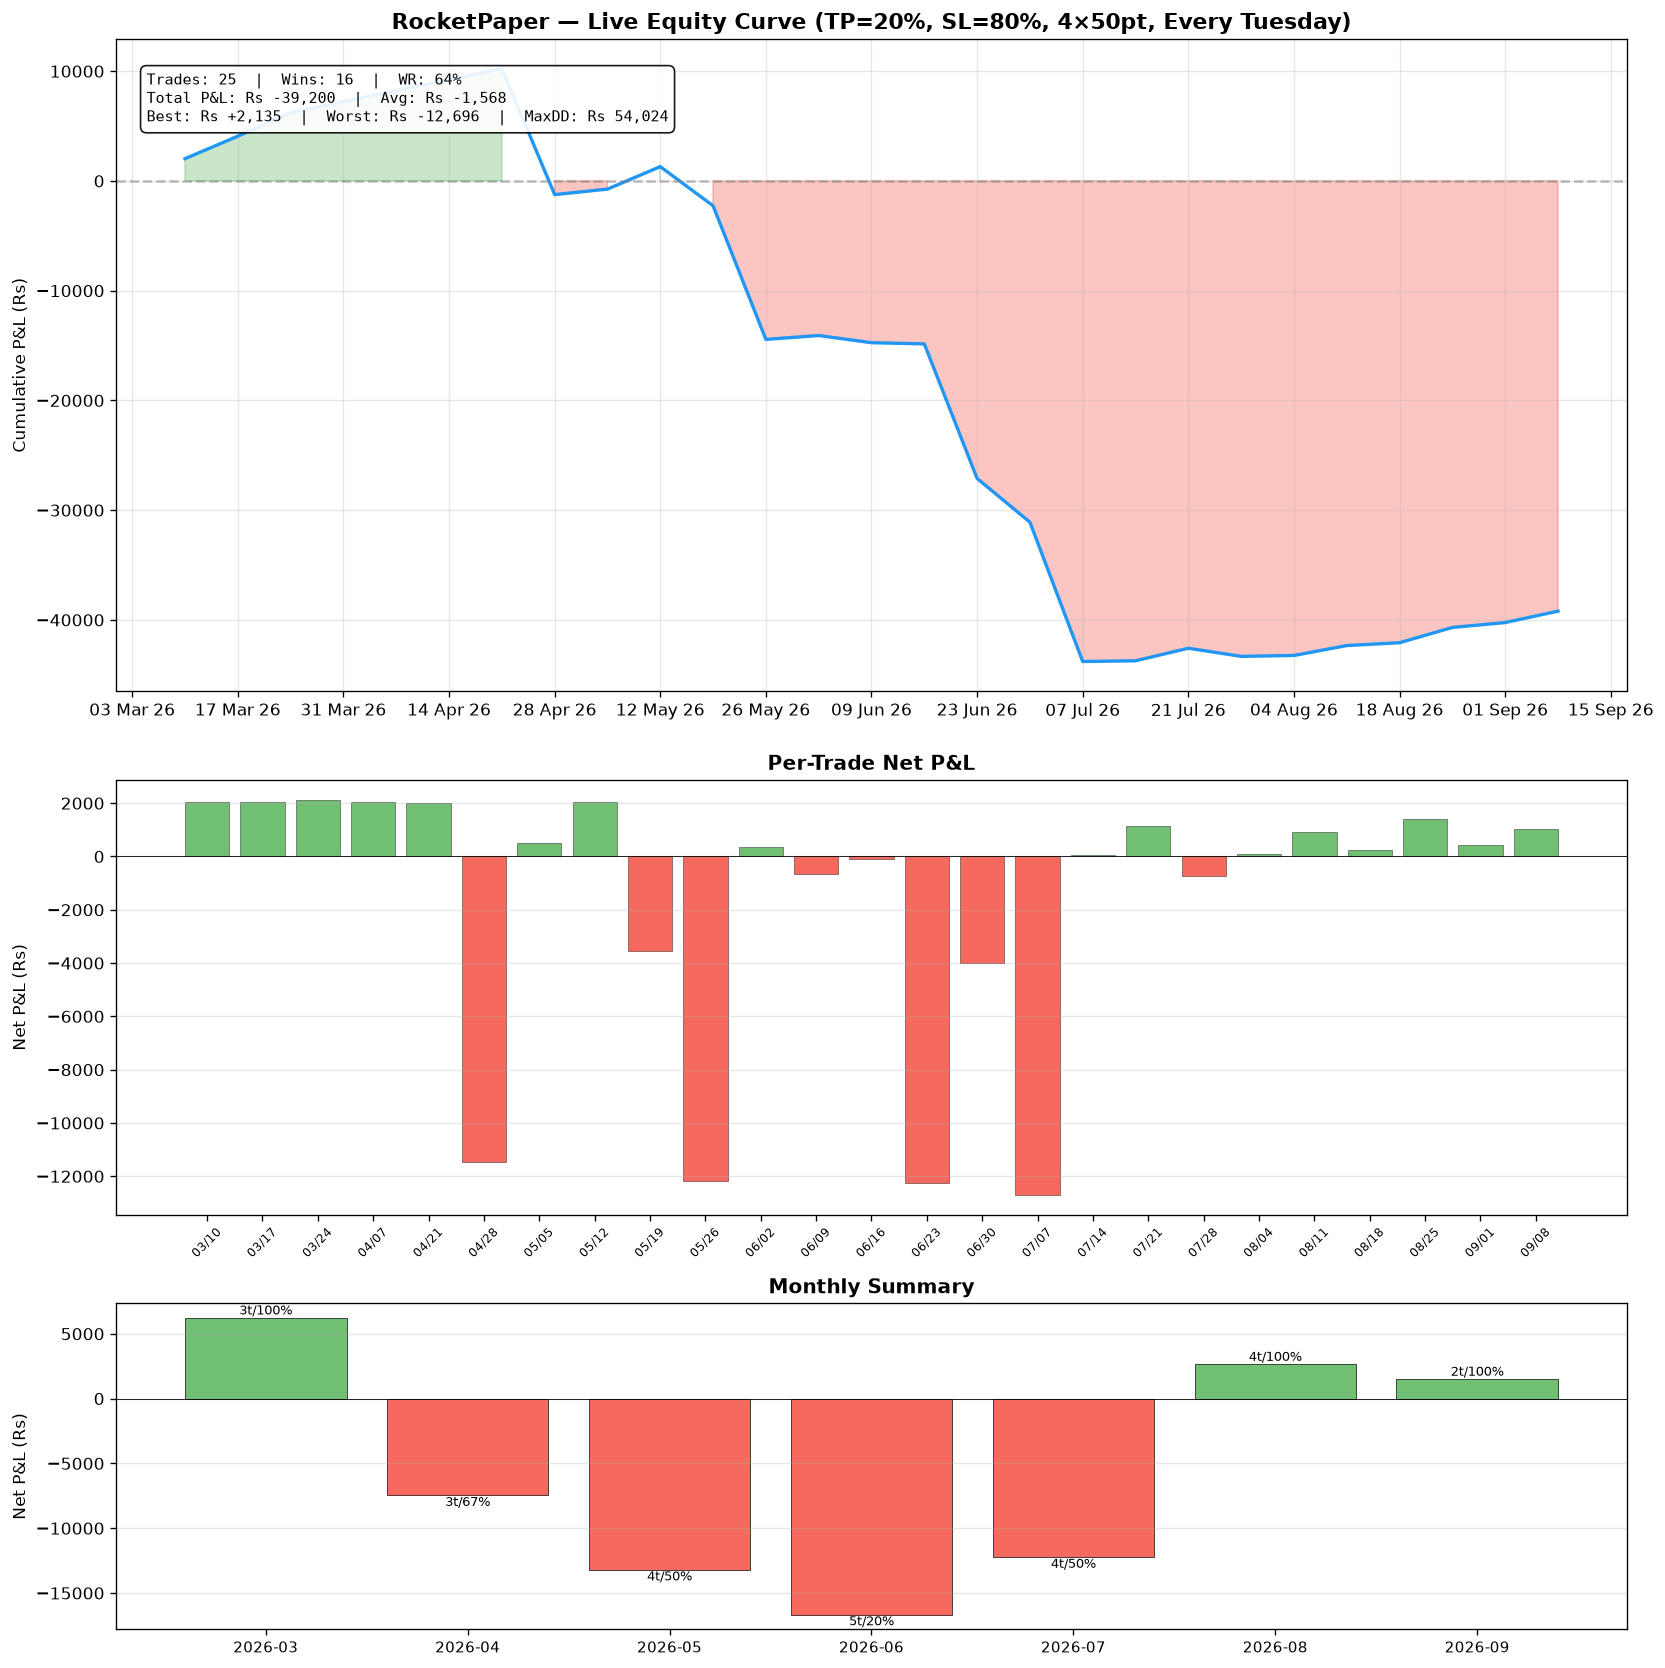
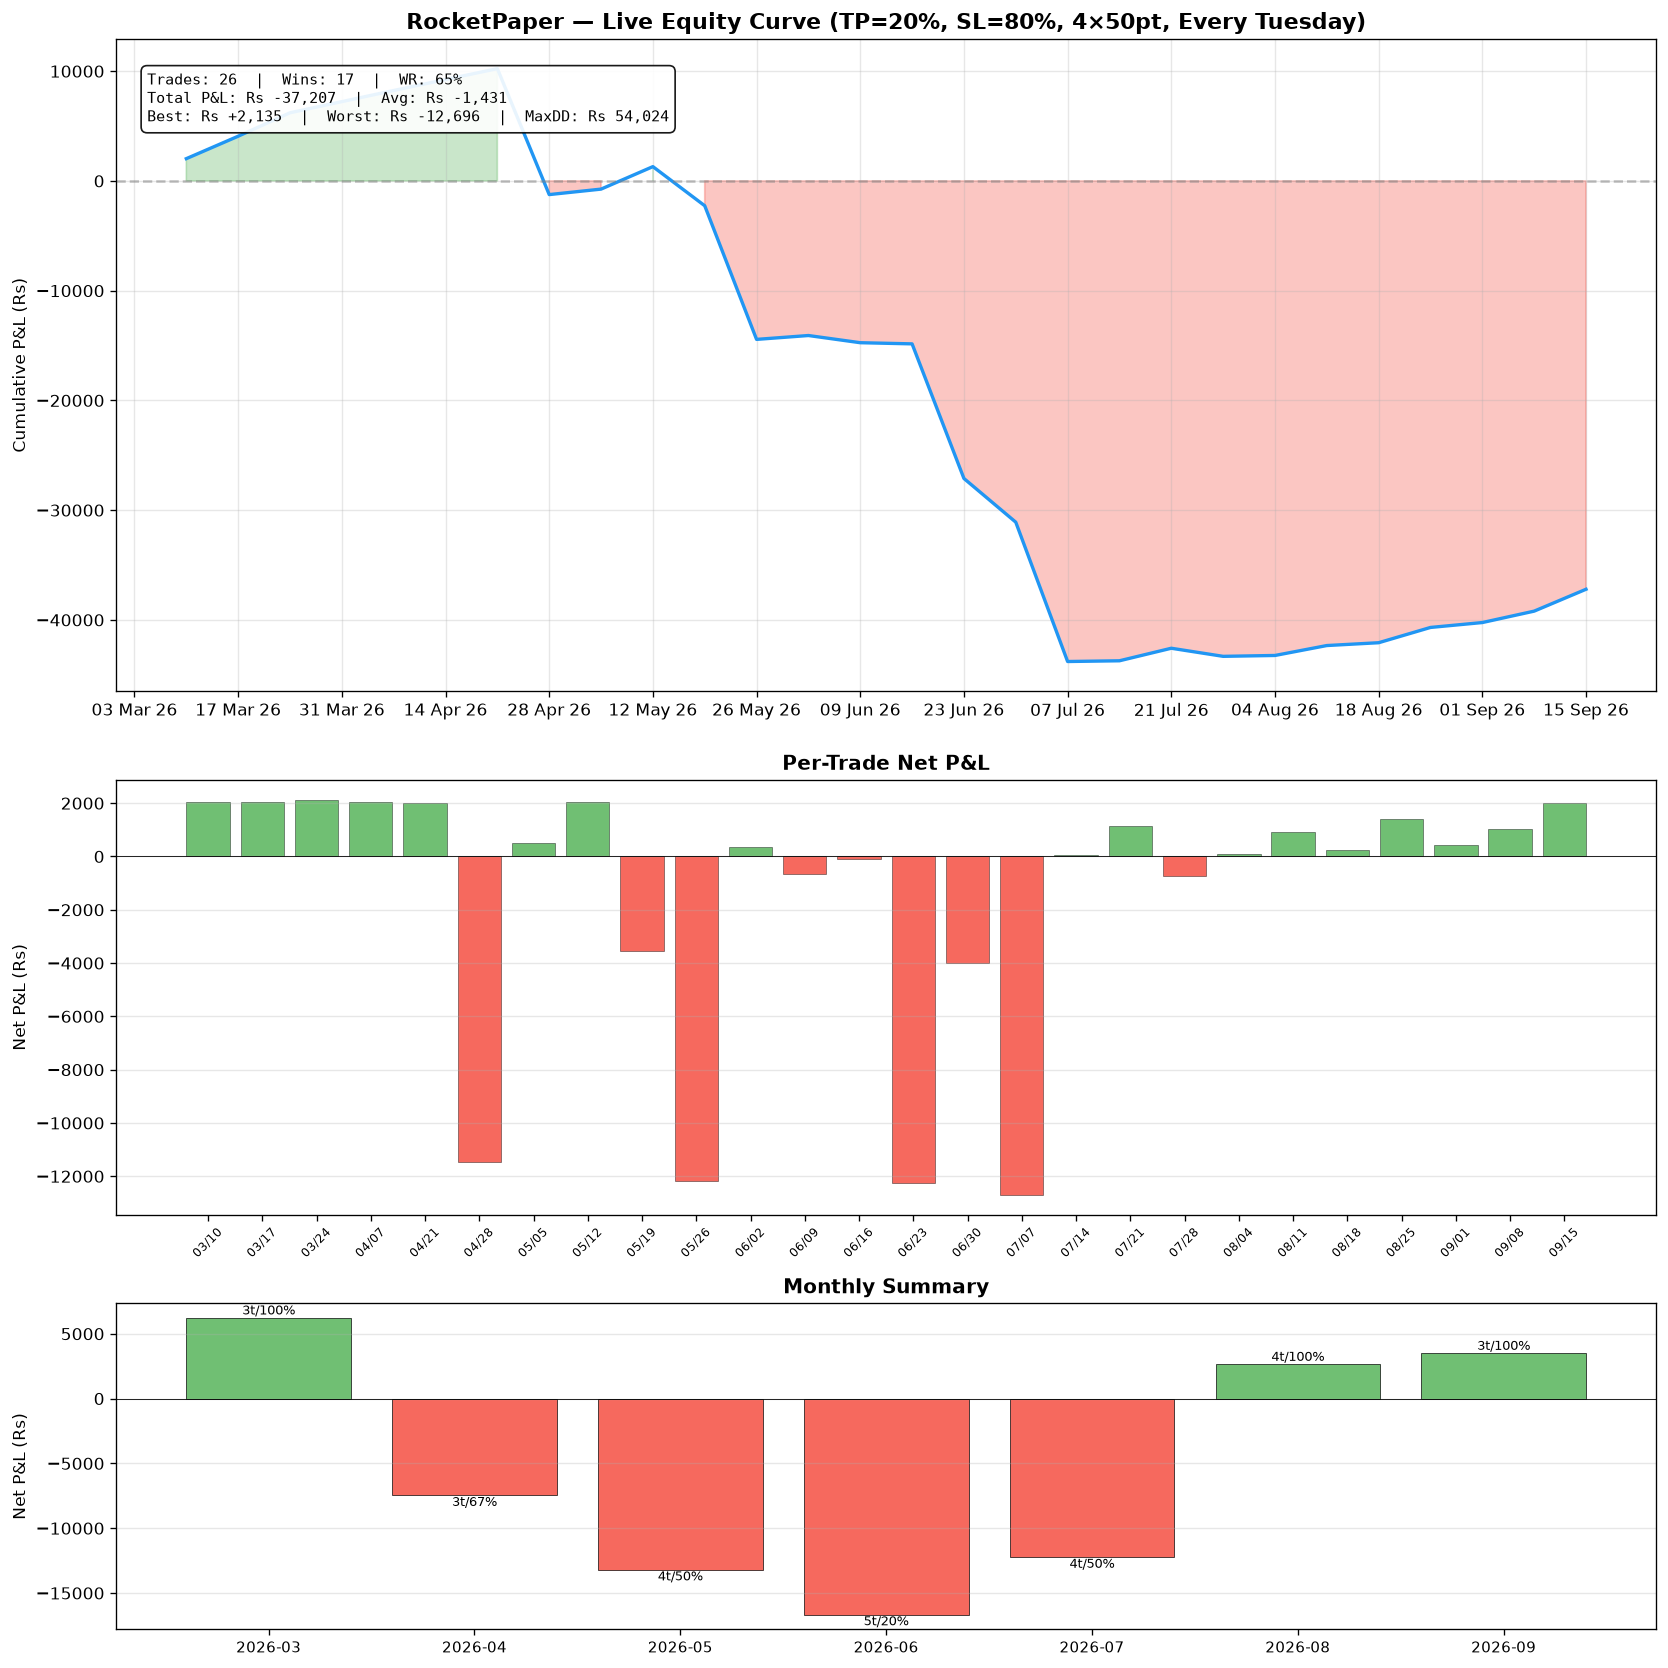
📊 RocketPaper — 15 Sep 2026 14:48 IST

diff --git a/README.md b/README.md
@@ -7,7 +7,7 @@ Automated Nifty 0-DTE credit spread paper trader. Runs every Tuesday on GitHub A
 <!-- STATS_START -->
 | Trades | Win Rate | Total P&L | Avg P&L | Max DD | Streak |
 |:------:|:--------:|:---------:|:-------:|:------:|:------:|
-| 25 | 64% (16W/9L) | Rs -39,200 | Rs -1,568 | Rs 54,024 | 6W |
+| 26 | 65% (17W/9L) | Rs -37,207 | Rs -1,431 | Rs 54,024 | 7W |
 <!-- STATS_END -->
 
 ---
@@ -23,14 +23,14 @@ Automated Nifty 0-DTE credit spread paper trader. Runs every Tuesday on GitHub A
 <!-- LAST_TRADE_START -->
 | Field | Value |
 |-------|-------|
-| Date | 2026-09-08 (Tuesday) |
+| Date | 2026-09-15 (Tuesday) |
 | Direction | Bearish |
-| Spread | CE 23650/23850 (4-wide) |
-| Credit | Rs 2,350 |
-| Risk | Rs 10,650 |
-| Exit | Time Exit at 15:15 |
-| Nifty | 23646 -> 23640 |
-| Result | **W Rs +1,040 (+9.8%)** |
+| Spread | CE 23250/23450 (4-wide) |
+| Credit | Rs 3,143 |
+| Risk | Rs 9,857 |
+| Exit | TP at 14:47 |
+| Nifty | 23267 -> 23170 |
+| Result | **W Rs +1,993 (+20.2%)** |
 <!-- LAST_TRADE_END -->
 
 ---
